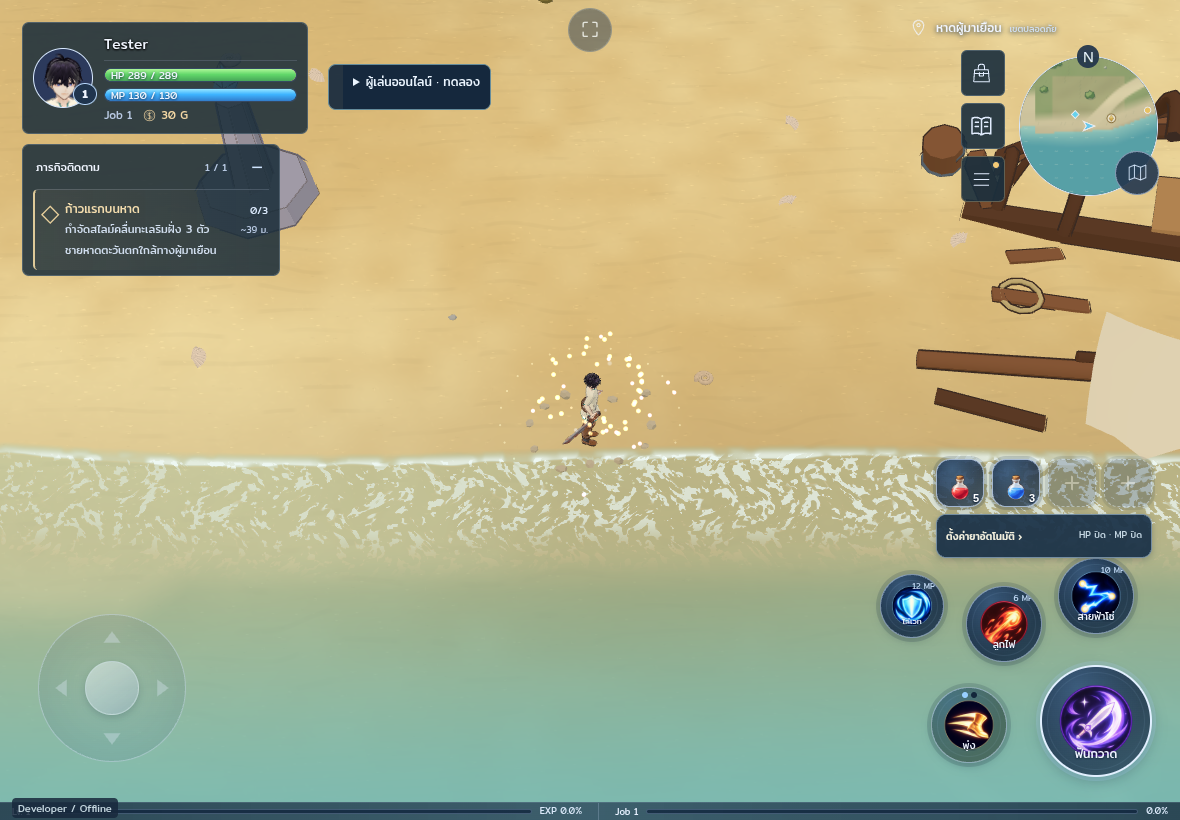
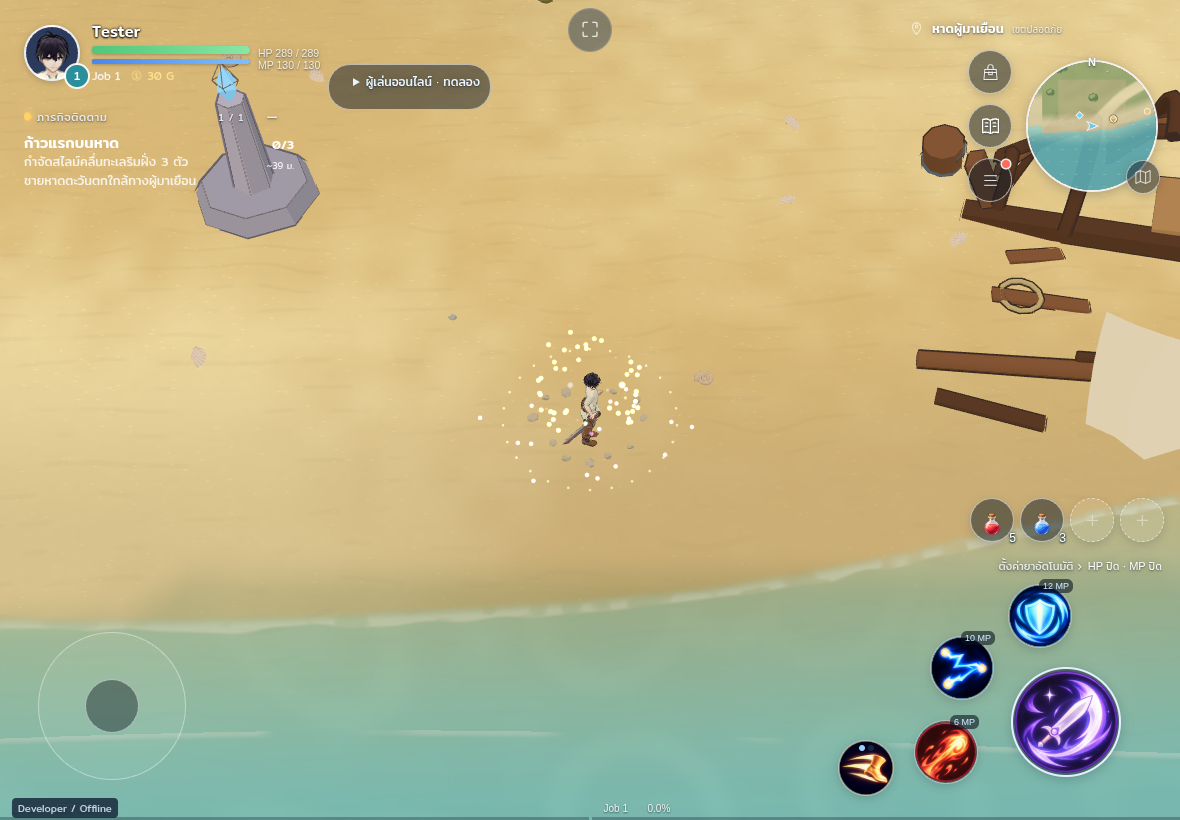
Fill skill slots in the latest clean UI without overflowing artwork

diff --git a/src/ui/hud-clean.css b/src/ui/hud-clean.css
@@ -93,9 +93,19 @@ body.ingame #hud .combat .sbtn::after { display: none; }
 body.ingame #hud .combat .sbtn.attack { border-width: 2px; box-shadow: 0 3px 12px rgba(10, 22, 32, .22); }
 body.ingame #hud .combat .sbtn.move { background: var(--hc-glass); }
 body.ingame #hud .sbtn .slabel, body.ingame #hud .sbtn .key, body.ingame #hud .qbtn .key { display: none; }
-body.ingame #hud .sbtn .ic, body.ingame #hud .sbtn.attack .ic, body.ingame #hud .sbtn.s3 .ic { inset: 12%; }
+/* The art fills the inside of its slot; only this viewport clips the artwork,
+   so cost/key chips outside the button remain readable and clickable. */
+body.ingame #hud .sbtn .ic, body.ingame #hud .sbtn.attack .ic, body.ingame #hud .sbtn.s3 .ic { inset: 0; overflow: hidden; border-radius: inherit; }
 body.ingame #hud .sbtn .ic svg, body.ingame #hud .sbtn.attack .ic svg { max-width: none; max-height: none; filter: none; }
-body.ingame #hud .sbtn .ic :is(img, .art) { border-radius: 50%; }
+body.ingame #hud .sbtn .ic .art { display: block; width: 100%; height: 100%; overflow: hidden; border-radius: inherit; }
+body.ingame #hud .sbtn .ic img { border-radius: inherit; }
+/* Round approvals include transparent delivery gutters. Remove that empty
+   margin in the clipped viewport, keeping the approved PNG bytes and aspect. */
+@media (pointer: coarse) {
+  body.ingame #hud .sbtn .ic .art > img { transform: scale(1.09871245); }
+  body.ingame #hud .sbtn .ic .art[data-art="skill/slash"] > img,
+  body.ingame #hud .sbtn .ic .art[data-art="skill/firebolt"] > img { transform: scale(1.12527473); }
+}
 body.ingame #hud .sbtn .cd { border-radius: 50%; background: conic-gradient(rgba(10, 20, 30, .55) var(--cd, 0%), transparent 0); }
 body.ingame #hud .sbtn .cdt { background: none; border: 0; font: 500 16px Kanit, sans-serif; text-shadow: 0 1px 2px #000; }
 body.ingame #hud .sbtn .skill-cost { top: -6px; right: -2px; padding: 0 4px; border-radius: 6px; background: rgba(10, 20, 30, .6); color: #cfe6ff; font: 500 9px/14px Kanit, sans-serif; }
@@ -169,7 +179,7 @@ body.ingame:not(.touch) #hud .combat .sbtn:is(.s1, .s2, .s3, .move) {
   position: relative; right: auto; bottom: auto; width: 54px; height: 54px; border-radius: 14px; border-width: 1.5px;
 }
 body.ingame:not(.touch) #hud .combat .sbtn.move { margin-left: 14px; order: 5; }
-body.ingame:not(.touch) #hud .sbtn .ic, body.ingame:not(.touch) #hud .sbtn .ic :is(img, .art) { border-radius: 10px; }
+body.ingame:not(.touch) #hud .sbtn .ic { border-radius: 12.5px; }
 body.ingame:not(.touch) #hud .sbtn .cd { border-radius: 12px; }
 body.ingame:not(.touch) #hud :is(.sbtn, .qbtn) .key {
   display: grid; place-items: center; position: absolute; left: -5px; top: -7px; right: auto; bottom: auto; z-index: 4;

diff --git a/src/ui/fieldhud.css b/src/ui/fieldhud.css
@@ -95,11 +95,6 @@ body.ingame #hud .sbtn.s3 .slabel {font-size:8px}
 body.ingame #hud .sbtn .skill-cost {right:8px;top:5px;font-size:8px;color:#bed7f2;z-index:2;background:none;border:0;padding:0}
 body.ingame #hud .sbtn .key {left:0;right:0;bottom:1px;text-align:center;font:7px/1.3 sans-serif;color:#9eb5d3;letter-spacing:.25px}
 body.ingame #hud .sbtn .cd {inset:0;border-radius:50%;z-index:1;background:conic-gradient(#07182bd9 var(--cd,0%),transparent 0)}
-/* Match the square desktop artwork; touch keeps the existing round controls. */
-@media (pointer: fine) {
- body.ingame #hud .combat .sbtn {border-radius:2px}
- body.ingame #hud .combat .sbtn .cd {border-radius:inherit}
-}
 body.ingame #hud .sbtn .cdt {z-index:3;background:#11243cdd;font-size:21px;padding:0 5px;color:#fff;border:1px solid #b9d9ff30}
 body.ingame #hud .sbtn .charges {z-index:2;bottom:4px}
 body.ingame #hud .sbtn .charges i {border-color:#cae6ff;background:#14273b}

diff --git a/docs/review/classic-skill-icons/REVIEW.md b/docs/review/classic-skill-icons/REVIEW.md
@@ -1,7 +1,8 @@
 # Classic A skill icons — integration review, 2026-10-22
 
 Owner instruction: replace the in-game skill icons with the reviewed Classic A
-delivery. Integration base: `6f3a7c237dc5323c7b94b2bdb3d7cd647c04d281`.
+delivery and fill the skill slots in the latest clean UI. Integrated UI base:
+`d055bfe8aa638c16af605e61c53948b9be96747b` (merged UI redesign #141).
 The final delivery ZIP SHA-256 is
[1 lines of base64/hex data omitted]
 Per-image identities are in `docs/icon-assets-manifest.json`; the retained square
@@ -12,8 +13,15 @@ to their public exports.
 
 - All 27 combat and 4 movement skills use their corresponding supplied art in
   the shared UI resolver, including the loadout, crafting, growth and combat HUD.
-- Fine pointers use square artwork and square combat frames. Coarse pointers
-  use the transparent round artwork and retain the existing round touch controls.
+- Fine pointers use square artwork in the clean UI's rounded square hotbar.
+  Coarse pointers use the transparent round artwork in the round touch controls.
+  Every skill's artwork viewport fills the slot interior, up to the border,
+  and clips at that boundary rather than overflowing into adjacent controls.
+- Round exports have transparent delivery gutters: the 29 new circles span
+  466px of their 512px canvas; the approved originals span about 455px. Clipped
+  CSS scaling removes those empty margins in the HUD without editing the PNGs
+  or changing the artwork's aspect ratio. Library/detail thumbnails retain
+  their existing layout and fill their dedicated artwork holders.
 - Slash retains its approved pixels. Firebolt uses its approved design with the
   decorative star removed. This integration does not regenerate either icon.
 - New artwork comes only from the final 31-skill delivery. Earlier discarded
@@ -29,30 +37,40 @@ Inspected the following PNGs from the built game in Chromium, using the existing
 | Capture | Viewport | Inspected result |
 | --- | --- | --- |
 | [desktop-skills-top.png](desktop-skills-top.png) | 1600 × 900, mouse | Square icons in equipped slots, library and detail panel; readable and contained. |
-| [desktop-hud.png](desktop-hud.png) | 1600 × 900, mouse | Approved Slash/Firebolt plus Chain Spark, Ward and Dash fit the square controls. |
+| [desktop-hud.png](desktop-hud.png) | 1600 × 900, mouse | Approved Slash/Firebolt plus Chain Spark, Ward and Dash fill the clean UI hotbar slots; key/cost chips stay visible. |
 | [ipad-skills-top.png](ipad-skills-top.png) | 1180 × 820, touch | Round variants have clear exteriors and fit the same library/detail layout. |
-| [ipad-hud.png](ipad-hud.png) | 1180 × 820, touch | Round art fits the existing touch controls; labels and joystick remain in place. |
+| [ipad-hud.png](ipad-hud.png) | 1180 × 820, touch | Round art fills the touch control frames; cost chips, potion row and joystick remain in place. |
 
-Also inspected the desktop movement-library capture generated by the same run.
-The captured views pass the icon-specific visual criteria. No major visible
-icon defects were found in these views. Stills were reviewed at their native
+The captured views pass the icon-specific visual criteria. The inherited 12%
+icon inset and the round exports' transparent gutters made the art too small;
+both are corrected in the HUD. No major visible icon defects remain in the
+inspected views. Stills were reviewed at their native
 viewport sizes, with the completed world backdrop paused by the existing test.
 These are browser simulations, not physical iPad or frame-rate measurements.
 
 ## Technical evidence and limits
 
-- `npm test`: 587 passed, 0 failed.
-- Focused raster/presentation tests: 11 passed, 0 failed.
-- `npm run build`: passed.
+- Prior artwork integration (`c6228fa`): core 587/587 and focused
+  raster/presentation 11/11 passed; CI core/build also passed. This follow-up
+  merges the UI redesign and changes presentation/tests only; its CI reruns the
+  current core/build and browser gates.
+- `npm run build` after merging the clean UI and correcting the fit: passed.
 - Export script: copies both variants without pixel changes; all 62 public PNGs
   were independently compared against the final reviewed delivery and matched.
-- Chromium actual-consumer checks passed desktop and iPad: all 31 HUD images
-  decoded, fit their buttons and selected the correct `currentSrc` variant;
+- Chromium actual-consumer checks against the clean UI passed desktop and iPad:
+  all 31 HUD images decoded, filled their slot interiors and selected the
+  correct `currentSrc` variant; artwork viewports are clipped at their boundaries;
   shared consumers loaded without page errors. The same focused suite also
   covers both phone orientations in the repository CI.
-- WebKit could not run locally because its host libraries are unavailable.
-  The repository CI runs the affected suites in its pinned Chromium/WebKit
-  container; publication remains subject to those checks.
+- The prior CI HUD comparison failed because it normalized `img.src` but not
+  the new responsive `source.srcset`. Both relative URLs are now normalized;
+  image identity comparisons and fit assertions remain enforced.
+- A local dedicated HUD run timed out during initial world startup (60s),
+  before reaching its assertions. The focused actual-consumer capture above
+  completed successfully; no host or unrelated game changes were made.
+- WebKit host libraries are unavailable locally. The previous artwork-only
+  head's Chromium/WebKit icon checks passed; the clean UI follow-up still
+  requires its own repository CI checks before publication.
 
 Direct source tracing covered the shared art resolver, combat/movement input,
 loadout workspace and crafting consumers, asset export, manifest and affected
